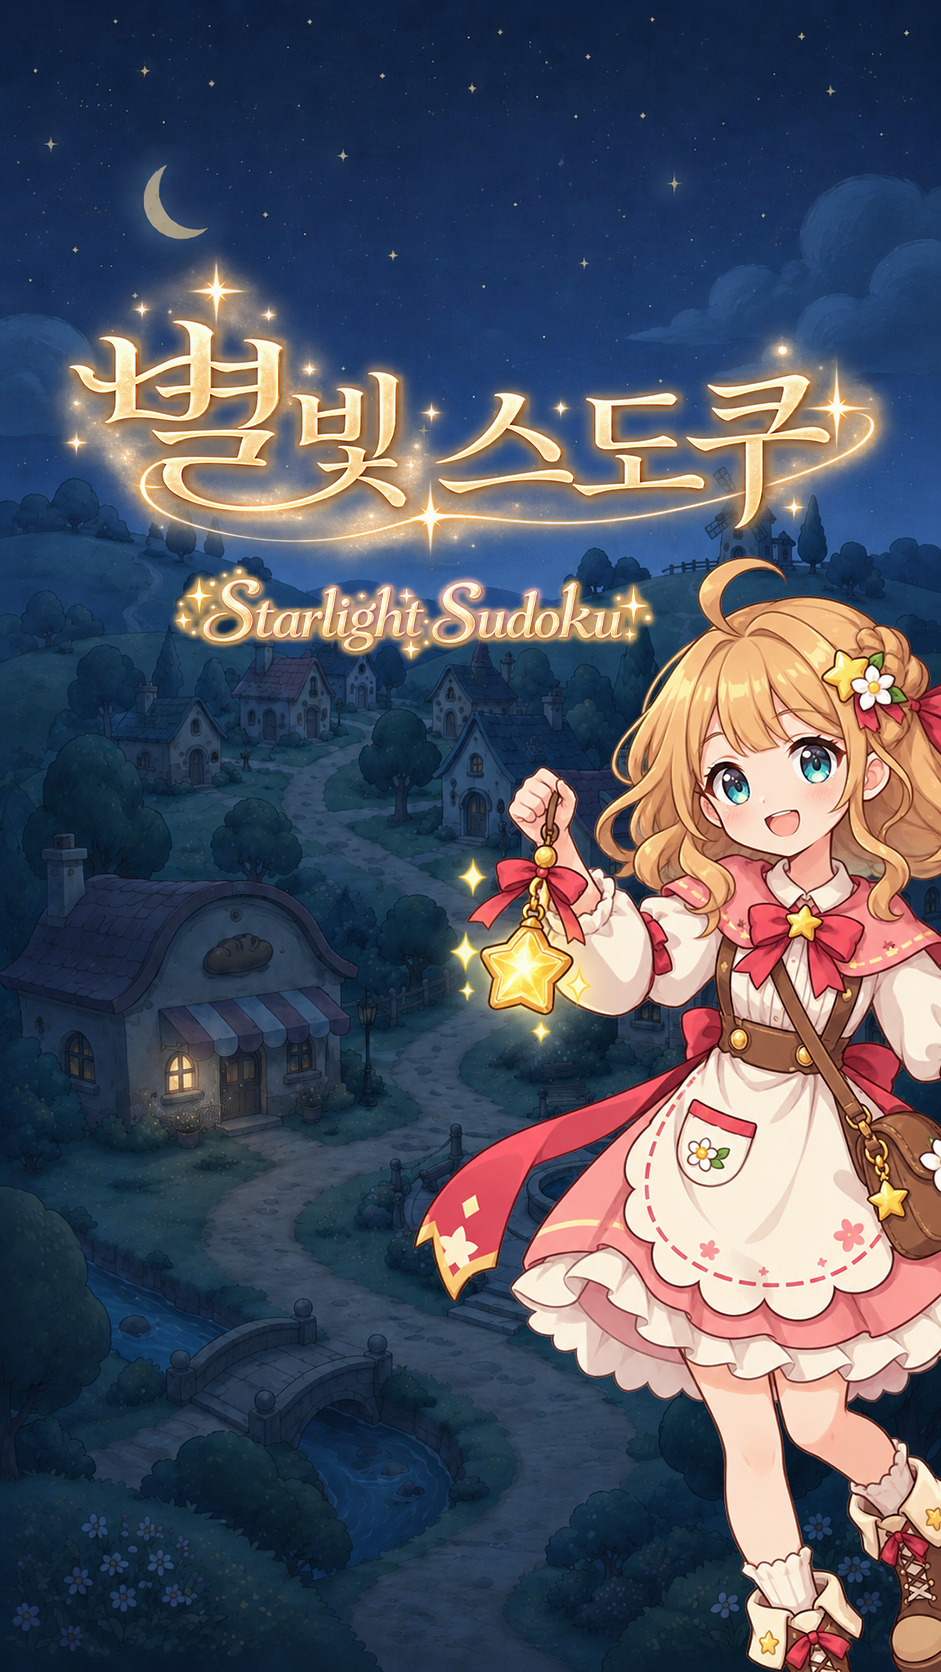
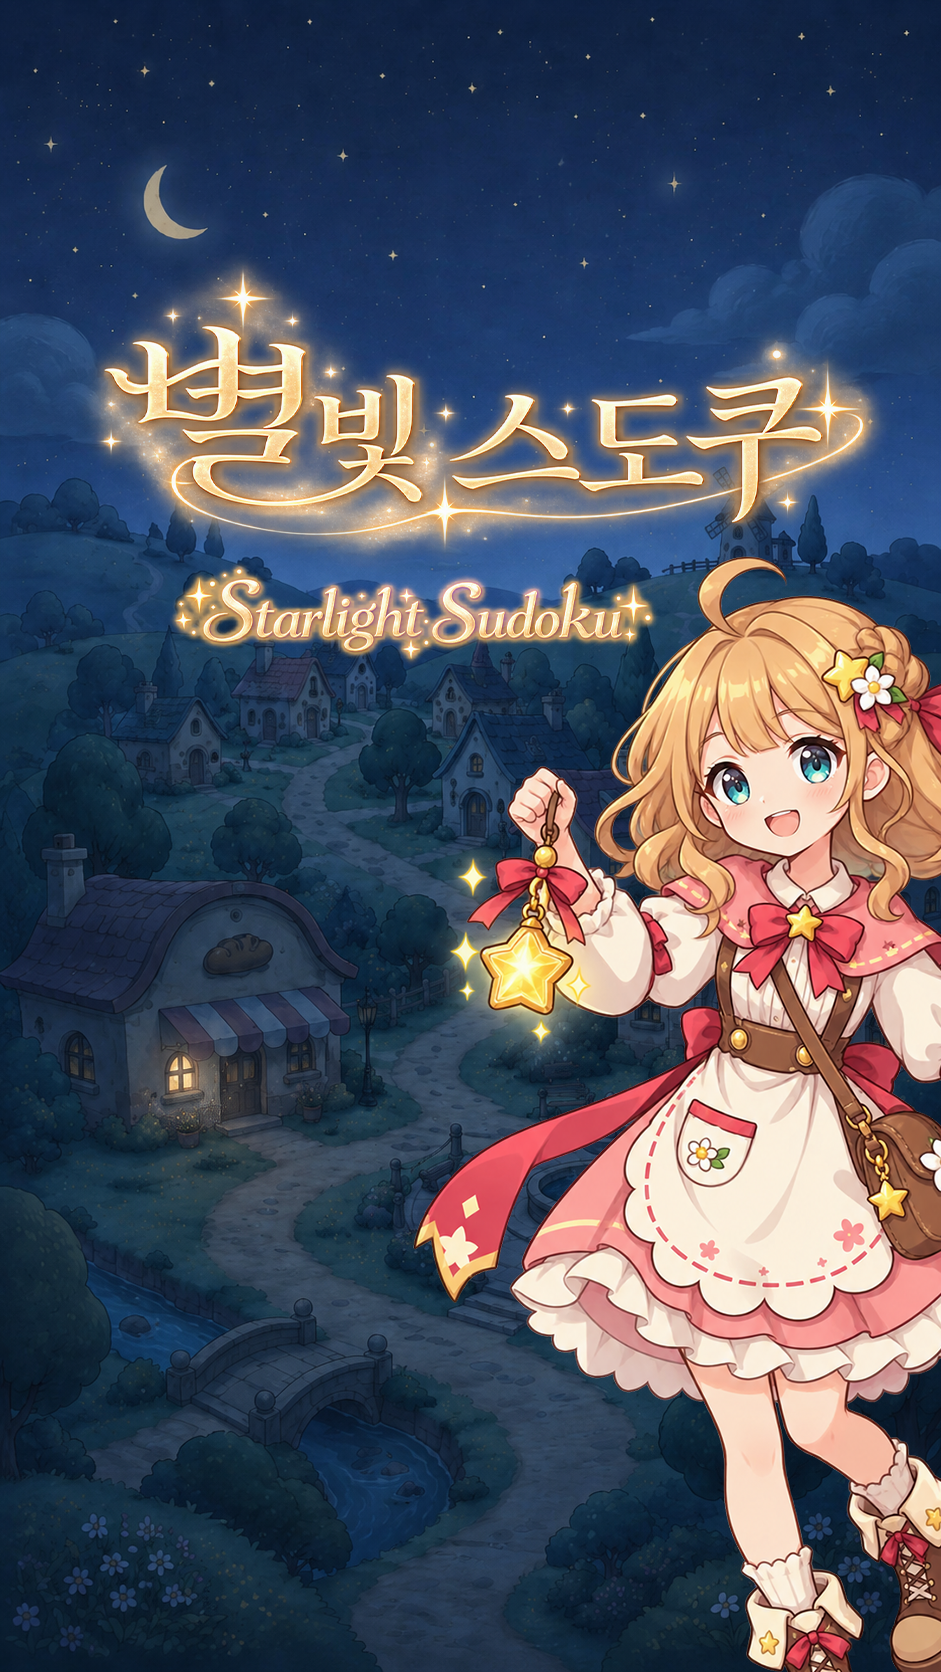
feat: refresh Korean title art and deduct StarLight on wrong answers

Changed region(s): [[0.0616, 0.1555, 0.9554, 0.3421]]

diff --git a/lib/presentation/notifiers/game_notifier.dart b/lib/presentation/notifiers/game_notifier.dart
@@ -31,7 +31,11 @@ class GameNotifier extends ChangeNotifier {
   StageProgress _stageProgress = const StageProgress();
   ActiveGameSnapshot? _activeGame;
   final List<SudokuBoard> _undoHistory = [];
+  final List<int> _undoMistakes = [];
   int _hintsUsed = 0;
+  int _mistakesUsed = 0;
+  int _lastMistakePenalty = 0;
+  int _mistakeFlashId = 0;
   int _levelNumber = 1;
   bool _hasSeenOpeningStory = false;
 
@@ -49,13 +53,18 @@ class GameNotifier extends ChangeNotifier {
   bool get canUndo => _undoHistory.isNotEmpty;
   int get hintsUsed => _hintsUsed;
   int get hintsRemaining => maxHints - _hintsUsed;
+  int get mistakesUsed => _mistakesUsed;
+  int get lastMistakePenalty => _lastMistakePenalty;
+  int get mistakeFlashId => _mistakeFlashId;
   bool get isFirstVillageComplete =>
       buildings.every((building) => building.isComplete);
 
   int get potentialStarLightReward {
     if (isCurrentLevelCleared) return 0;
-    final reward = DifficultyConfig.getConfig(_difficulty).starLightReward;
-    return (reward - (_hintsUsed * hintRewardPenalty)).clamp(0, reward);
+    final config = DifficultyConfig.getConfig(_difficulty);
+    final penalty = (_hintsUsed * hintRewardPenalty) +
+        (_mistakesUsed * config.mistakeStarLightPenalty);
+    return (config.starLightReward - penalty).clamp(0, config.starLightReward);
   }
 
   bool get isCurrentLevelCleared =>
@@ -152,7 +161,11 @@ class GameNotifier extends ChangeNotifier {
     _hasAwardedCurrentGame = false;
     _isPaused = false;
     _hintsUsed = 0;
+    _mistakesUsed = 0;
+    _lastMistakePenalty = 0;
+    _mistakeFlashId = 0;
     _undoHistory.clear();
+    _undoMistakes.clear();
     _saveActiveGame();
 
     notifyListeners();
@@ -176,18 +189,33 @@ class GameNotifier extends ChangeNotifier {
     _totalStarLight = 0;
     _hasAwardedCurrentGame = false;
     _hintsUsed = snapshot.hintsUsed;
+    _mistakesUsed = snapshot.mistakesUsed;
+    _lastMistakePenalty = 0;
+    _mistakeFlashId = 0;
     _undoHistory.clear();
+    _undoMistakes.clear();
     notifyListeners();
     return true;
   }
 
   /// 셀에 값 설정
   void setCellValue(int row, int col, int value) {
+    if (value >= 1 && value <= 9 && _board.playerBoard[row][col] == value) {
+      return;
+    }
     _recordUndoState();
     if (value == 0) {
       _board.setValue(row, col, 0);
     } else if (value >= 1 && value <= 9) {
+      final isWrong = value != _board.solution[row][col];
       _board.setValue(row, col, value);
+      if (isWrong) {
+        final penalty =
+            DifficultyConfig.getConfig(_difficulty).mistakeStarLightPenalty;
+        _mistakesUsed++;
+        _lastMistakePenalty = penalty;
+        _mistakeFlashId++;
+      }
     }
     _saveActiveGame();
     notifyListeners();
@@ -234,6 +262,7 @@ class GameNotifier extends ChangeNotifier {
     if (_undoHistory.isEmpty) return;
 
     _board = _undoHistory.removeLast();
+    _mistakesUsed = _undoMistakes.removeLast();
     _saveActiveGame();
     notifyListeners();
   }
@@ -281,7 +310,11 @@ class GameNotifier extends ChangeNotifier {
     _totalStarLight = 0;
     _isPaused = false;
     _hintsUsed = 0;
+    _mistakesUsed = 0;
+    _lastMistakePenalty = 0;
+    _mistakeFlashId = 0;
     _undoHistory.clear();
+    _undoMistakes.clear();
     _saveActiveGame();
     notifyListeners();
   }
@@ -292,9 +325,11 @@ class GameNotifier extends ChangeNotifier {
 
     final isFirstClear = !_stageProgress.isCompleted(_difficulty, _levelNumber);
     if (isFirstClear) {
-      final reward = DifficultyConfig.getConfig(_difficulty).starLightReward;
-      _totalStarLight =
-          (reward - (_hintsUsed * hintRewardPenalty)).clamp(0, reward);
+      final config = DifficultyConfig.getConfig(_difficulty);
+      _totalStarLight = (config.starLightReward -
+              (_hintsUsed * hintRewardPenalty) -
+              (_mistakesUsed * config.mistakeStarLightPenalty))
+          .clamp(0, config.starLightReward);
       _starLightBalance += _totalStarLight;
       _stageProgress = _stageProgress.markCompleted(_difficulty, _levelNumber);
     } else {
@@ -330,6 +365,7 @@ class GameNotifier extends ChangeNotifier {
       elapsedSeconds: _elapsedSeconds,
       isPaused: _isPaused,
       hintsUsed: _hintsUsed,
+      mistakesUsed: _mistakesUsed,
       levelNumber: _levelNumber,
     );
     unawaited(_progressStore.saveActiveGame(_activeGame!));
@@ -338,7 +374,9 @@ class GameNotifier extends ChangeNotifier {
   void _recordUndoState() {
     if (_undoHistory.length == 100) {
       _undoHistory.removeAt(0);
+      _undoMistakes.removeAt(0);
     }
     _undoHistory.add(_board.copy());
+    _undoMistakes.add(_mistakesUsed);
   }
 }

diff --git a/lib/presentation/widgets/timer_widget.dart b/lib/presentation/widgets/timer_widget.dart
@@ -15,6 +15,8 @@ class TimerWidget extends StatefulWidget {
 class _TimerWidgetState extends State<TimerWidget> {
   late Timer _timer;
 
+  static const _gold = Color(0xFFE0B422);
+
   @override
   void initState() {
     super.initState();
@@ -58,25 +60,32 @@ class _TimerWidgetState extends State<TimerWidget> {
           child: Row(
             children: [
               const SizedBox(width: 8),
-              const Icon(Icons.auto_awesome, color: Color(0xFFF5CC3D), size: 18),
-              const SizedBox(width: 3),
+              const Icon(Icons.auto_awesome, color: _gold, size: 20),
+              const SizedBox(width: 4),
               const Text(
                 'StarLight',
                 style: TextStyle(
-                  fontSize: 13,
-                  fontWeight: FontWeight.w600,
-                  color: Color(0xFFF5CC3D),
+                  fontSize: 15,
+                  fontWeight: FontWeight.w700,
+                  color: _gold,
                 ),
               ),
-              const SizedBox(width: 4),
-              Text('$reward', style: const TextStyle(fontWeight: FontWeight.bold, color: Color(0xFFF5CC3D))),
-              if (gameNotifier.hintsUsed > 0) ...[
-                const SizedBox(width: 6),
-                Text(
-                  '-${gameNotifier.hintsUsed * GameNotifier.hintRewardPenalty}',
-                  style: const TextStyle(fontSize: 12, color: Color(0xFF9A4D31)),
+              const SizedBox(width: 5),
+              Text(
+                reward.toString().padLeft(3, '0'),
+                style: const TextStyle(
+                  fontSize: 16,
+                  fontWeight: FontWeight.w800,
+                  color: _gold,
                 ),
-              ],
+              ),
+              SizedBox(
+                width: 32,
+                child: _PenaltyFlash(
+                  token: gameNotifier.mistakeFlashId,
+                  amount: gameNotifier.lastMistakePenalty,
+                ),
+              ),
               const Spacer(),
               Text(
                 config.getDisplayName(),
@@ -103,6 +112,85 @@ class _TimerWidgetState extends State<TimerWidget> {
           ),
         );
       },
+    );
+  }
+}
+
+class _PenaltyFlash extends StatefulWidget {
+  const _PenaltyFlash({
+    required this.token,
+    required this.amount,
+  });
+
+  final int token;
+  final int amount;
+
+  @override
+  State<_PenaltyFlash> createState() => _PenaltyFlashState();
+}
+
+class _PenaltyFlashState extends State<_PenaltyFlash>
+    with SingleTickerProviderStateMixin {
+  late final AnimationController _controller;
+  late final Animation<double> _opacity;
+
+  @override
+  void initState() {
+    super.initState();
+    _controller = AnimationController(
+      vsync: this,
+      duration: const Duration(milliseconds: 1100),
+    );
+    _opacity = TweenSequence<double>([
+      TweenSequenceItem(
+        tween: Tween<double>(begin: 0, end: 1).chain(
+          CurveTween(curve: Curves.easeOut),
+        ),
+        weight: 14,
+      ),
+      TweenSequenceItem(tween: ConstantTween<double>(1), weight: 36),
+      TweenSequenceItem(
+        tween: Tween<double>(begin: 1, end: 0).chain(
+          CurveTween(curve: Curves.easeOut),
+        ),
+        weight: 50,
+      ),
+    ]).animate(_controller);
+    if (widget.token > 0 && widget.amount > 0) {
+      _controller.forward();
+    }
+  }
+
+  @override
+  void didUpdateWidget(_PenaltyFlash oldWidget) {
+    super.didUpdateWidget(oldWidget);
+    if (widget.token != oldWidget.token &&
+        widget.token > 0 &&
+        widget.amount > 0) {
+      _controller.forward(from: 0);
+    }
+  }
+
+  @override
+  void dispose() {
+    _controller.dispose();
+    super.dispose();
+  }
+
+  @override
+  Widget build(BuildContext context) {
+    if (widget.amount <= 0) return const SizedBox.shrink();
+    return FadeTransition(
+      opacity: _opacity,
+      child: Text(
+        '-${widget.amount}',
+        textAlign: TextAlign.center,
+        style: const TextStyle(
+          fontSize: 14,
+          fontWeight: FontWeight.w800,
+          color: Color(0xFFC4452D),
+        ),
+      ),
     );
   }
 }

diff --git a/lib/core/sudoku/sudoku_difficulty.dart b/lib/core/sudoku/sudoku_difficulty.dart
@@ -25,6 +25,9 @@ class DifficultyConfig {
   // StarLight reward for completing this difficulty
   final int starLightReward;
 
+  // StarLight lost for one wrong number
+  final int mistakeStarLightPenalty;
+
   // Time reduction for building restoration (in seconds)
   final int restorationTimeReduction;
 
@@ -39,6 +42,7 @@ class DifficultyConfig {
     required this.maxEmptyCells,
     required this.maxRemovalAttempts,
     required this.starLightReward,
+    required this.mistakeStarLightPenalty,
     required this.restorationTimeReduction,
     required this.stageCount,
   });
@@ -54,6 +58,7 @@ class DifficultyConfig {
           maxEmptyCells: 36,
           maxRemovalAttempts: 100,
           starLightReward: GameBalance.easyStarLightReward,
+          mistakeStarLightPenalty: GameBalance.easyMistakePenalty,
           restorationTimeReduction: GameBalance.easyTimeReduction,
           stageCount: GameBalance.easyStageCount,
         );
@@ -66,6 +71,7 @@ class DifficultyConfig {
           maxEmptyCells: 46,
           maxRemovalAttempts: 200,
           starLightReward: GameBalance.normalStarLightReward,
+          mistakeStarLightPenalty: GameBalance.normalMistakePenalty,
           restorationTimeReduction: GameBalance.normalTimeReduction,
           stageCount: GameBalance.normalStageCount,
         );
@@ -78,6 +84,7 @@ class DifficultyConfig {
           maxEmptyCells: 56,
           maxRemovalAttempts: 300,
           starLightReward: GameBalance.hardStarLightReward,
+          mistakeStarLightPenalty: GameBalance.hardMistakePenalty,
           restorationTimeReduction: GameBalance.hardTimeReduction,
           stageCount: GameBalance.hardStageCount,
         );

diff --git a/lib/core/progress/active_game_snapshot.dart b/lib/core/progress/active_game_snapshot.dart
@@ -9,6 +9,7 @@ class ActiveGameSnapshot {
     required this.elapsedSeconds,
     required this.isPaused,
     required this.hintsUsed,
+    this.mistakesUsed = 0,
     this.levelNumber = 1,
   });
 
@@ -17,6 +18,7 @@ class ActiveGameSnapshot {
   final int elapsedSeconds;
   final bool isPaused;
   final int hintsUsed;
+  final int mistakesUsed;
   final int levelNumber;
 
   Map<String, Object> toJson() => {
@@ -30,6 +32,7 @@ class ActiveGameSnapshot {
         'elapsedSeconds': elapsedSeconds,
         'isPaused': isPaused,
         'hintsUsed': hintsUsed,
+        'mistakesUsed': mistakesUsed,
         'levelNumber': levelNumber,
       };
 
@@ -56,6 +59,7 @@ class ActiveGameSnapshot {
       elapsedSeconds: json['elapsedSeconds'] as int,
       isPaused: json['isPaused'] as bool,
       hintsUsed: json['hintsUsed'] as int? ?? 0,
+      mistakesUsed: json['mistakesUsed'] as int? ?? 0,
       levelNumber: json['levelNumber'] as int? ?? 1,
     );
   }

diff --git a/lib/presentation/screens/village_screen.dart b/lib/presentation/screens/village_screen.dart
@@ -60,7 +60,7 @@ class VillageScreen extends StatelessWidget {
                             children: [
                               const Icon(
                                 Icons.auto_awesome,
-                                color: Color(0xFFF5CC3D),
+                                color: Color(0xFFC49612),
                                 size: 16,
                               ),
                               const SizedBox(width: 4),

diff --git a/test/active_game_snapshot_test.dart b/test/active_game_snapshot_test.dart
@@ -17,6 +17,7 @@ void main() {
       elapsedSeconds: 92,
       isPaused: true,
       hintsUsed: 2,
+      mistakesUsed: 3,
       levelNumber: 7,
     );
 
@@ -29,6 +30,7 @@ void main() {
     expect(restored.elapsedSeconds, 92);
     expect(restored.isPaused, isTrue);
     expect(restored.hintsUsed, 2);
+    expect(restored.mistakesUsed, 3);
     expect(restored.levelNumber, 7);
   });
 

diff --git a/lib/core/config/game_balance.dart b/lib/core/config/game_balance.dart
@@ -6,6 +6,10 @@ class GameBalance {
   static const int normalStarLightReward = 120;
   static const int hardStarLightReward = 180;
 
+  static const int easyMistakePenalty = 1;
+  static const int normalMistakePenalty = 2;
+  static const int hardMistakePenalty = 5;
+
   // Stage counts per difficulty
   static const int easyStageCount = 20;
   static const int normalStageCount = 40;
